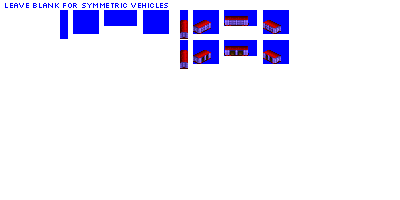
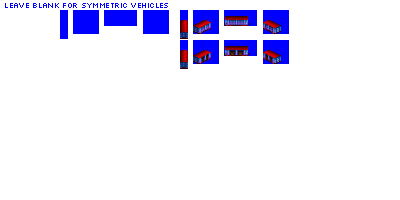
Change: NG merchandise box cars; improve NG box car sprite marginally

diff --git a/src/vehicles/merchandise_box_cars.py b/src/vehicles/merchandise_box_cars.py
@@ -2,6 +2,30 @@ from train import BoxCarMerchandiseConsist, FreightCar
 
 
 def main():
+    # --------------- pony NG ----------------------------------------------------------------------
+
+    consist = BoxCarMerchandiseConsist(
+        roster_id="pony",
+        base_numeric_id=11860,
+        gen=3,
+        subtype="A",
+        base_track_type_name="NG",
+        sprites_complete=True,
+    )
+
+    consist.add_unit(type=FreightCar, chassis="4_axle_ng_16px")
+
+    consist = BoxCarMerchandiseConsist(
+        roster_id="pony",
+        base_numeric_id=11940,
+        gen=3,
+        subtype="B",
+        base_track_type_name="NG",
+        sprites_complete=True,
+    )
+
+    consist.add_unit(type=FreightCar, chassis="4_axle_ng_24px")
+
     # --------------- pony ----------------------------------------------------------------------
 
     consist = BoxCarMerchandiseConsist(
